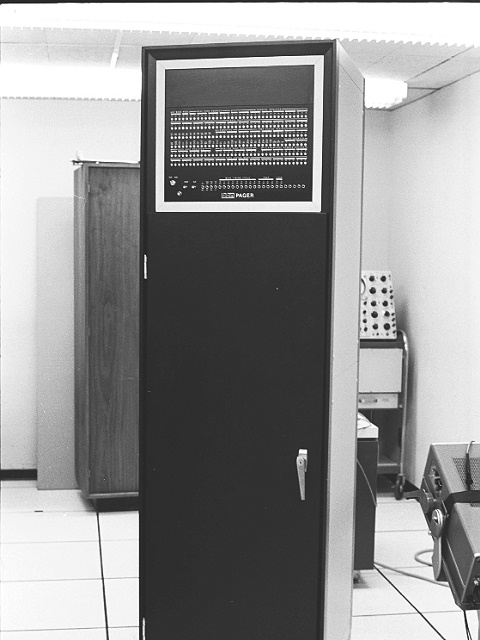
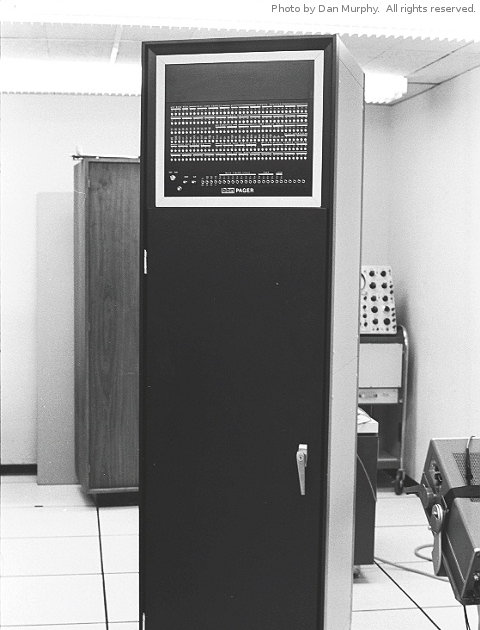
Fix TODO's

diff --git a/_posts/2016-09-21-tenex-password-bug.md b/_posts/2016-09-21-tenex-password-bug.md
@@ -7,28 +7,28 @@ date: 2016-10-24
 
 In 1974, BBN computer scientist Alan Bell discovered a security flaw in the operating system Tenex. The password checking procedure would access certain memory pages during checking. By looking at which pages were accessed during checking of the password, user passwords could be guessed one character at a time.
 
-## Tenex introduction
+## The Tenex operating system
 
-Bolt, Beranek and Newman (BBN) was a company initially specialized in acoustics. Because acoustic models required a lot of computation, BBN got interested in computing. The company was the first to purchase a PDP-1. The scientists at BBN had specific requirements for computers. First, they specifically wanted time sharing functionality, so that multiple programs could be run in parallel. Secondly, they wanted virtual memory so that programs were not limited by the 4096 words of memory the PDP-1 had. For the PDP-1, they implemented both in software.
+Bolt, Beranek and Newman (BBN) was a company initially specialized in acoustics. Because acoustic models required a lot of computation, BBN got interested in computing. In 1961 the company was the first to purchase a [PDP-1](https://en.wikipedia.org/wiki/PDP-1) from the Digital Equipment Corporation (DEC). The PDP-1 did not fully meet the requirements of BBN. The scientists at BBN wanted multiple users to be able to run memory-intensive LISP programs, and this required two features the PDP-1 did not have. First, they wanted time sharing functionality, so that multiple programs could be run in parallel. Secondly, they wanted virtual memory so that programs were not limited by the 4096 words of memory the PDP-1 had. For the PDP-1, they implemented both in software.
 
-Later, BBN tried to get DEC to change the PDP-6 to conform to their wishes, to no avail. Then in 1970 BBN decided to modify a PDP-10 to fit their needs. BBN added a paging hardware module to the PDP-10 to implement virtual memory in hardware. This also needed support in software, and BBN decided to implement its own operating system: Tenex.
+BBN had specific requirements and views on how they wanted computers to work. The world of computers was in its infancy and it was not yet very clear which features a computer should have. BBN thought it should at least have time sharing and virtual memory. BBN tried to get DEC to change the PDP-6 to conform to their wishes, to no avail. Then in 1970 BBN decided to modify a PDP-10 to fit their needs. BBN added a paging hardware module to the PDP-10 to implement virtual memory in hardware. This also needed support in software, and BBN decided to implement its own operating system: Tenex.
 
 ![PDP-10 console](/images/pdp10-console.jpg "PDP-10 console")
 
-## Bug summary
+## Discovery of the bug
 
 Tenex had several several system calls in the operating system, which could be called using the JSYS instruction. One of these system calls was a procedure to check the password of another user. This procedure would check the password one character at a time. By putting the password to be checked on a page boundary, and checking whether the second page is accessed, it was possible to guess passwords one character at a time.
 
-The bug was discovered in 1974 by a young computer scientist, Alan Bell. Alan joined BBN just a year before and was interested in the operating system, which was the most complicated piece of software that he encountered so far. He read the source code of Tenex in his own time to figure out how it worked, and this is how he discovered the flaw.
+The bug was discovered in 1974 by a young computer scientist, Alan Bell. Alan joined BBN just a year before and was interested in the operating system, which was the most complicated piece of software that he encountered so far. He read the source code of Tenex in his own time to figure out how it worked, and this is how he discovered the flaw.  "At one point, I looked at the password checking routine and saw the flaw. I implemented code to exploit this flaw, proved that it successfully worked, and ran it on a few system accounts to verify that."
 
-## Paging introduction
+## The Tenex paging system
 
 The scientists at BBN wanted to run memory-intensive LISP programs, but the PDP-1 came with only 4096 words of memory. A solution to this was to implement virtual memory: memory could be made to look bigger by storing parts on disk and putting it in memory just as it was needed. 
-Blocks of memory would be swapped between disk and memory to seemingly have a lot of memory. These blocks are called pages and the process of exchaning pages between disk and memory is called paging.
+Blocks of memory would be swapped between disk and memory to seemingly have a lot of memory. These blocks are called pages and the process of exchanging pages between disk and memory is called paging.
 
 Paging makes it possible to address more memory than the machine actually has. This "virtual memory" is simulated by storing rarely used memory on disk and keeping only the most often used pages in memory. If a memory page is referenced that is not currently in memory, program execution is paused, the page is loaded from disk and put in memory, and execution continues. 
 
-BBN was one of the first to see the advantage of paging, but the advantages weren't obvious to everyone. According to Dan Murphy, who worked at BBN from 1965 until 1972: "Then too, paging and "virtual memory" were still rather new concepts at that time.  Significant commercial systems had yet to adopt these techniques, and the idea of pretending to have more memory that you really had was viewed skeptically in many quarters within DEC."
+BBN was one of the first to see the advantage of paging, but the advantages weren't obvious to everyone. According to [Dan Murphy](http://www.opost.com/dlm/), who worked at BBN from 1965 until 1972: "Then too, paging and "virtual memory" were still rather new concepts at that time.  Significant commercial systems had yet to adopt these techniques, and the idea of pretending to have more memory that you really had was viewed skeptically in many quarters within DEC."
 
 At BBN they implemented paging for the PDP-1 in software. Although it worked well, it was pretty slow.  "However, the actual number of references
 was sufficiently high that a great deal of time
@@ -38,23 +38,23 @@ this translation must be done in hardware if a
 truly effective paged virtual memory system
 were to be built."
 
-BBN asked DEC to design a PDP-6 with paging, but eventually DEC stopped producing PDP-6 models without there ever having been paging support. After a couple of years, BBN decided to build their own virtual memory support using the PDP-10. Because the PDP-10 had insufficient support for this, a hardware module was added between the processor and the memory, that handled the paging. 
+BBN asked DEC to design a PDP-6 with paging, but eventually DEC stopped producing PDP-6 models without there ever having been paging support. After a couple of years, BBN decided to build their own virtual memory support using the PDP-10. Because the PDP-10 had insufficient support for this, a hardware module was added between the processor and the memory, that handled the paging. This photo by Dan Murphy shows the BBN pager, as the hardware module was called:
 
-![BBN pager hardware](/images/bbn-pager.jpg "BBN pager hardware")
+![BBN pager hardware. Photo by Dan Murphy.  All rights reserved.](/images/bbn-pager.jpg "BBN pager hardware. Photo by Dan Murphy.  All rights reserved.")
 
-Besides the hardware there was also software support for paging in Tenex. Each program under Tenex could use the full address space for adressing memory. Furthermore, programs had a lot of control over the paging. Alan Bell writes: "The virtual memory system allowed the user a lot of control over what pages were placed in the address space. While usually a paging file was in the address space, it was also possible to map data files, etc. Therefore, the user was given control over what was mapped where and the type of access allowed."
+Besides the hardware there was also software support for paging in Tenex. Each program under Tenex could use the full address space for addressing memory. Furthermore, programs had a lot of control over the paging. Alan Bell writes: "The virtual memory system allowed the user a lot of control over what pages were placed in the address space. While usually a paging file was in the address space, it was also possible to map data files, etc. Therefore, the user was given control over what was mapped where and the type of access allowed."
 
 One of the paging settings was the "trap to user" bit. This would cause an interrupt to the program whenever a page was accessed. This was generally not very useful, but was an easy way to exploit the character guessing bug.
 
-## Password checking introduction
+## Checking the password
 
-Like many modern systems, Tenex supported multiple users that could authenticate themselves with passwords. The operating system provided a system call system call available to check other users passwords. "This password checking JSYS was given a user name string and a password string. It would return success or failure. To prevent quickly trying many passwords, it delayed returning to the user code for 3 seconds on failure."
+Like many modern systems, Tenex supported multiple users that could authenticate themselves with passwords. The operating system provided a system call to check user passwords. "This password checking JSYS was given a user name string and a password string. It would return success or failure. To prevent quickly trying many passwords, it delayed returning to the user code for 3 seconds on failure."
 
 The two passwords, the one in the system and the one supplied by the user, were compared using a standard string comparison algorithm: one character at a time. "The algorithm would step down each character in the strings, making the comparison. It would indicate failure as soon it saw a disagreement. If it got too the end of both strings, it would indicate success."
 
 ![String comparison is done one character at a time](/images/tenex-serial-string-compare.png "String comparison is done one character at a time")
 
-## Bug explanation
+## Exploiting the bug
 
 To exploit the vulnerability, Alan wrote a program that would place the first character it didn't know at the end of the page, with the rest of the string on the next page. The next page would have the "trap to user" bit set to detect any access to the page. If the character was wrong, the OS would never access the characters on the next page and would return false after a three second delay. If the character was correct, the OS would check the next character, which would access the next page and cause a trap to the user.
 
@@ -70,9 +70,9 @@ These different behaviors are distinguishable from the user program. This means 
 
 ## Alternative exploits
 
-Alan used the "trap to user" bit to detect whether a page was accessed, but more common mechanisms like turning off read access or not mapping a page would have also worked.
+Alan used the "trap to user" bit to detect whether a page was accessed, but this was only one of the ways it was possible to detect page access. It would also be possible to turn of read access on a page, so that an error occurred as soon as the password checking procedure would try to read from the page. Another possibility was to not map the page at all, and checking whether it was created after checking the password.
 
-It would also be possible to exploit this bug using a timing attack. The amount of physical memory was in the range of 64K words and the virtual address space was much larger so it would have been easy to force pages out of physical memory by accessing other pages. One could then time the access.
+It would also be possible to exploit this bug using a timing attack. "The amount of physical memory was in the range of 64K words and the virtual address space was much larger so it would have been easy to force pages out of physical memory by accessing other pages. One could then time the access."
 
 ## Fix
 
@@ -83,9 +83,9 @@ field.  Test the eighth WORD before doing anything.  That would give you a bad m
 
 In 1974 there was no responsible disclosure yet and not many companies had experience with fixing security bugs. "Computer security research was basically non-existent in 1974. So I simply saw this as a bug in the OS as opposed to something more important.", writes Alan. Even so, BBN took care that all sites running Tenex would receive the patch at approximately the same time. "They sent an email to all the sites running Tenex saying that an important security patch was forthcoming at a particular time. They didn't want people exploiting it by getting the actual patch before others." At that time there would be between a dozen and two dozen sites with Tenex machines.
 
-## Proper fix
+## Encrypted passwords
 
-The behavior of the password check could no longer be determined from the page accesses with the fix Bob Clements put in. However, developers at BBN soon became aware that storing passwords in plaintext was not very secure to begin with. Bob writes, "A day or so later, someone realized that relying on keeping plaintext copies of passwords in the system files was not a smart thing to do.  So we created encrypted passwords."
+With the fix Bob Clements put it, the behavior of the password check could no longer be determined from the page access. However, developers at BBN soon became aware that storing passwords in plaintext was not very secure to begin with. Bob writes, "A day or so later, someone realized that relying on keeping plaintext copies of passwords in the system files was not a smart thing to do.  So we created encrypted passwords."
 
 "We encrypted the passwords so you had to compare the encrypted form
 of the password with the pre-stored version of the encrypted password.
@@ -95,7 +95,7 @@ plaintext up against the encrypted version.  This was a lot like modern Unix."
 
 ## Conclusion
 
-In Tenex, it was possible to configure the paging system to notify the user when a specific page was accessed. This could be used to guess the password of a user in a couple of minutes. This is a typical example of a side-channel attack, where the behavior of a program is determined without communicating directly with the program. Although at the time there was little known about security research, BBN handled the bug admirably by distributing a patch within days of the bug being found.
+BBN was a pioneer at start of the computing era, and successfully implemented and promoted virtual memory, a feature that is now in almost every computer and operating system. Alan Bell used this feature to determine memory access and exploit a security flaw by guessing passwords. This is a typical example of a side-channel attack, where the behavior of a program is determined without communicating directly with the program. Such side-channel attacks are still relevant today, for example the [cache timing attack on AES](https://cr.yp.to/antiforgery/cachetiming-20050414.pdf). BBN handled the vulnerability admirably by distributing a patch within days of the being being found.
 
 ## Read more
 
